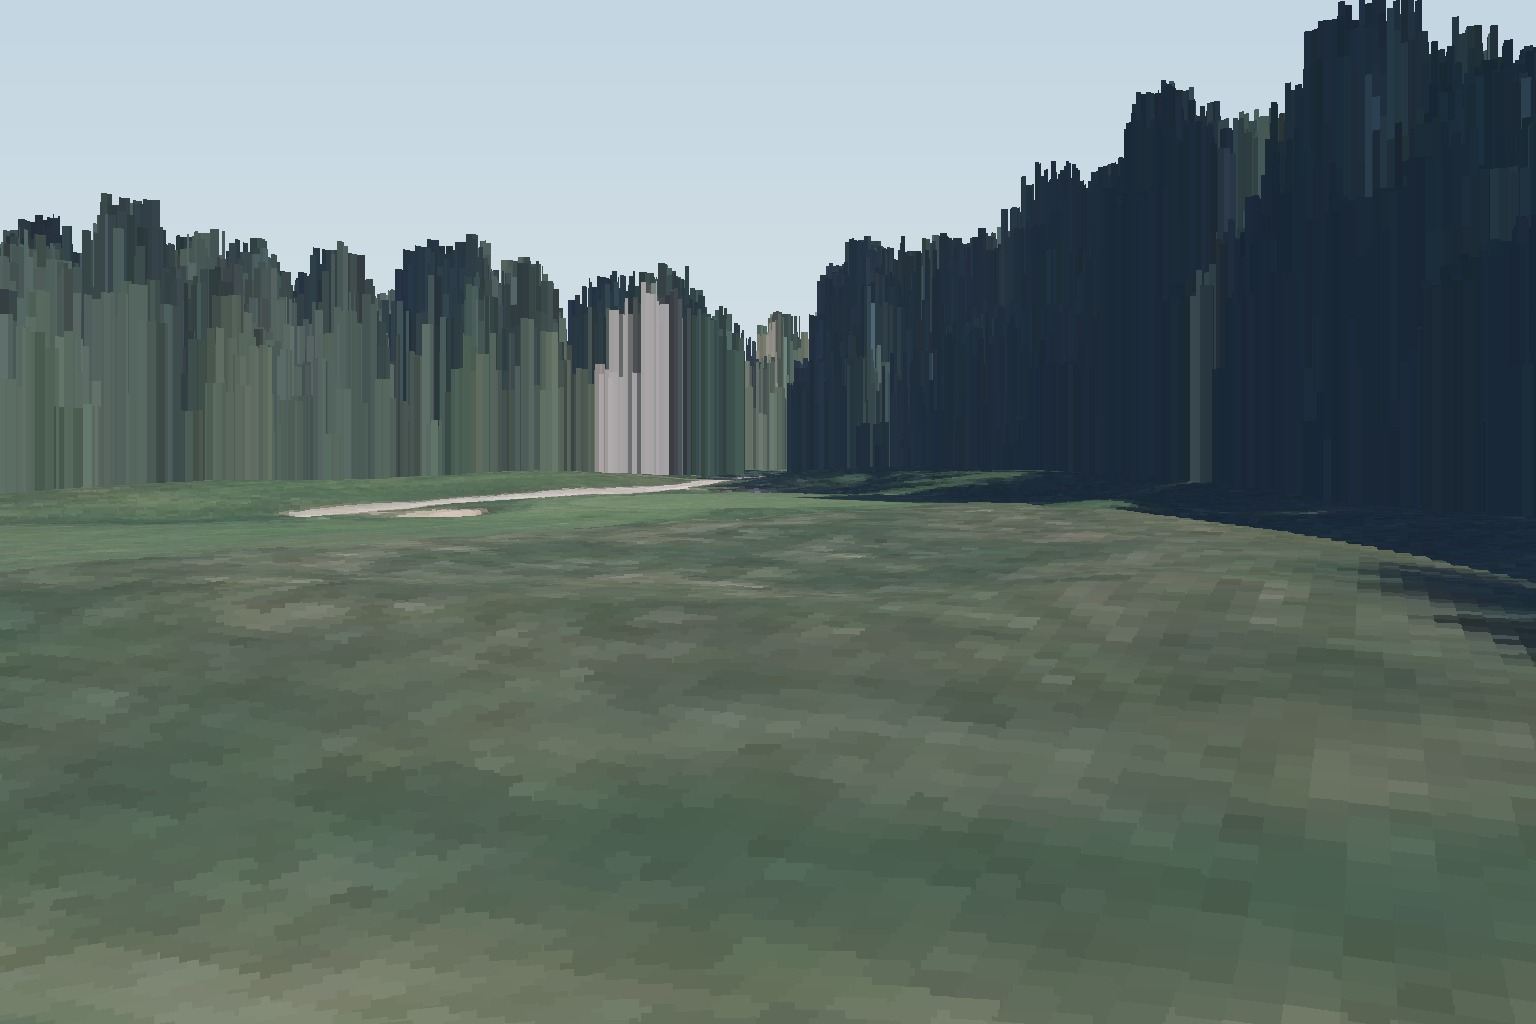
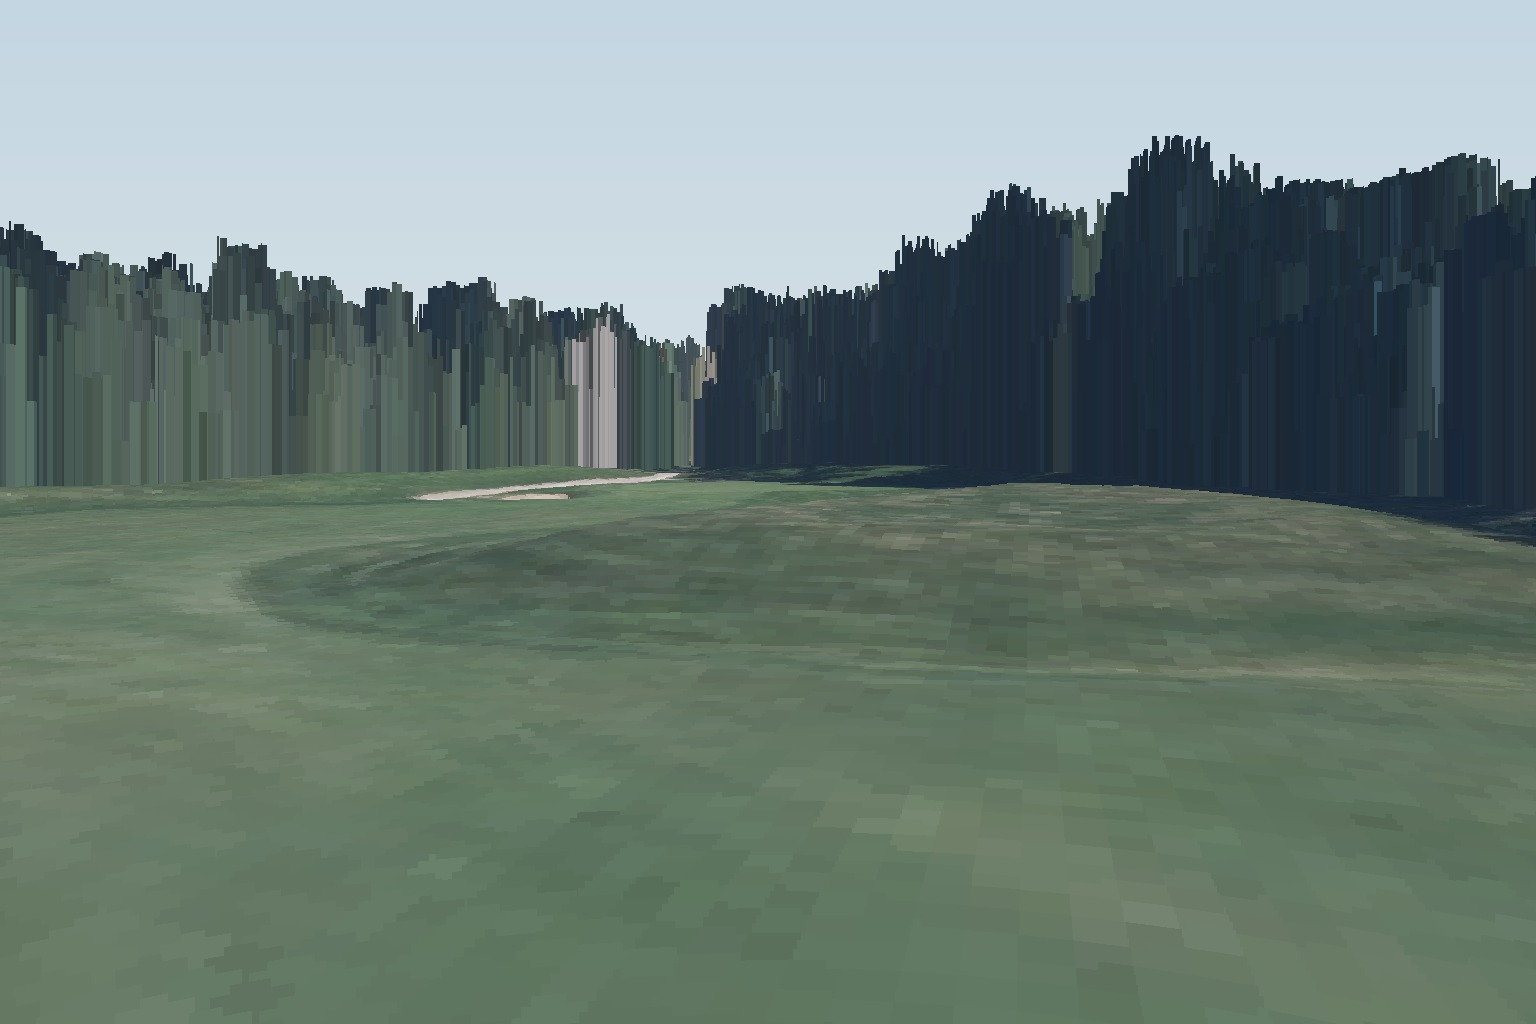
Hål 3: inspelsvy från knicken
Claude-Session: https://claude.ai/code/session_01KqG1GUsb2FjWm4iUZSnPua

diff --git a/tmp-ai/rendera.py b/tmp-ai/rendera.py
@@ -14,7 +14,7 @@ vyer={
  "h05-tee":   ((491797.0,6305418.0),(491960.0,6305460.0),1.6),
  "h05-inspel":((491945.0,6305452.0),(492055.0,6305487.0),3.0),
  "h03-tee":   ((491546.8,6305902.0),(491653.5,6305800.7),1.6),
- "h03-inspel":((491688.0,6305772.0),(491715.1,6305712.0),3.0),
+ "h03-inspel":((491698.0,6305783.0),(491715.1,6305712.0),3.0),
  "allm-park": ((491830.0,6305730.0),(491960.0,6305780.0),5.0),
  "allm-lang": ((492060.0,6305630.0),(492040.0,6305860.0),5.0),
  "allm-damm": ((491850.0,6305440.0),(491805.0,6305490.0),5.0),
@@ -22,4 +22,4 @@ vyer={
 }
 for n in (sys.argv[1:] or vyer):
     k,m,h=vyer[n]
-    perspektiv(O,D,k,m,hojd_m=h,fov_grader=70 if n.startswith('allm') else 60,ut=Path(f'tmp-ai/{n}-3d.jpg'),fria=fria,linjer=linjer,laz=Path('data/glasriket/laser/y26a023-63050_4900_25.copc.laz')); print(n)
+    perspektiv(O,D,k,m,hojd_m=h,fov_grader=70 if n.startswith(('allm','h03-inspel')) else 60,ut=Path(f'tmp-ai/{n}-3d.jpg'),fria=fria,linjer=linjer,laz=Path('data/glasriket/laser/y26a023-63050_4900_25.copc.laz')); print(n)
